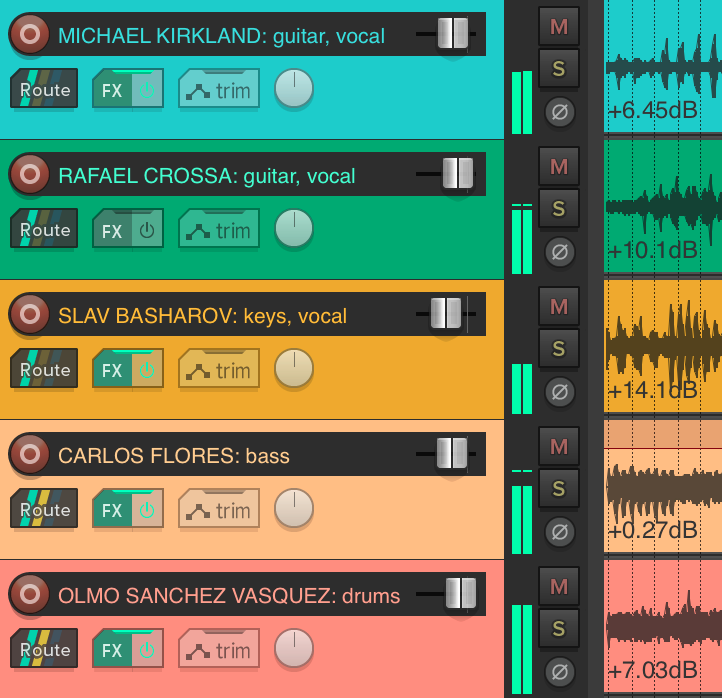
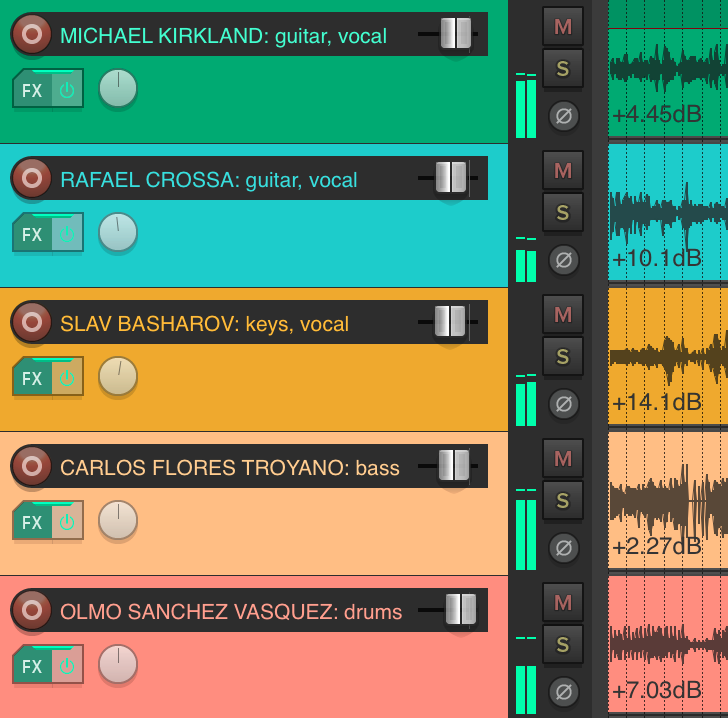
Updated band members img, rehearsals title

diff --git a/src/routes/+page.svelte b/src/routes/+page.svelte
@@ -623,6 +623,7 @@
 				height: auto;
 				width: auto;
 				object-fit: contain;
+				max-width: 500px;
 			}
 			@media screen and (max-width: 900px) {
 				width: 100%;
